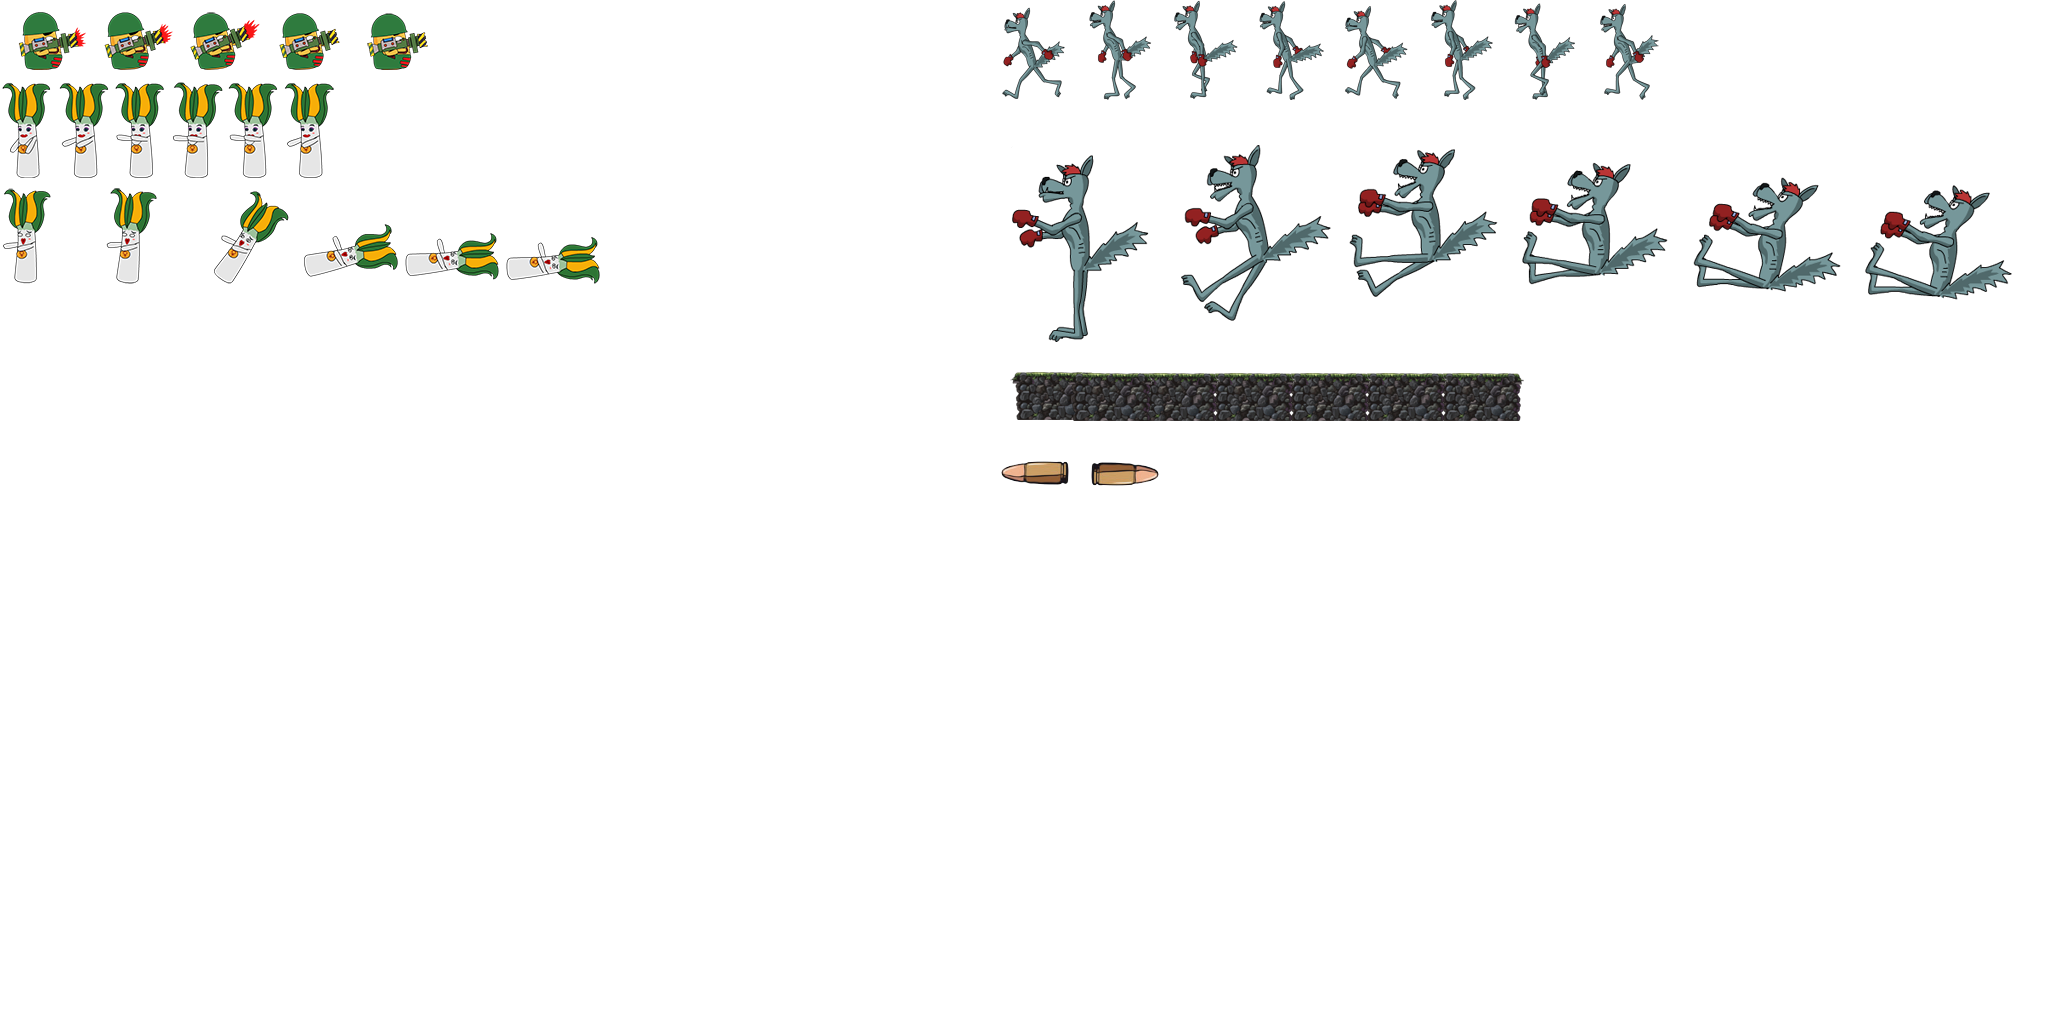
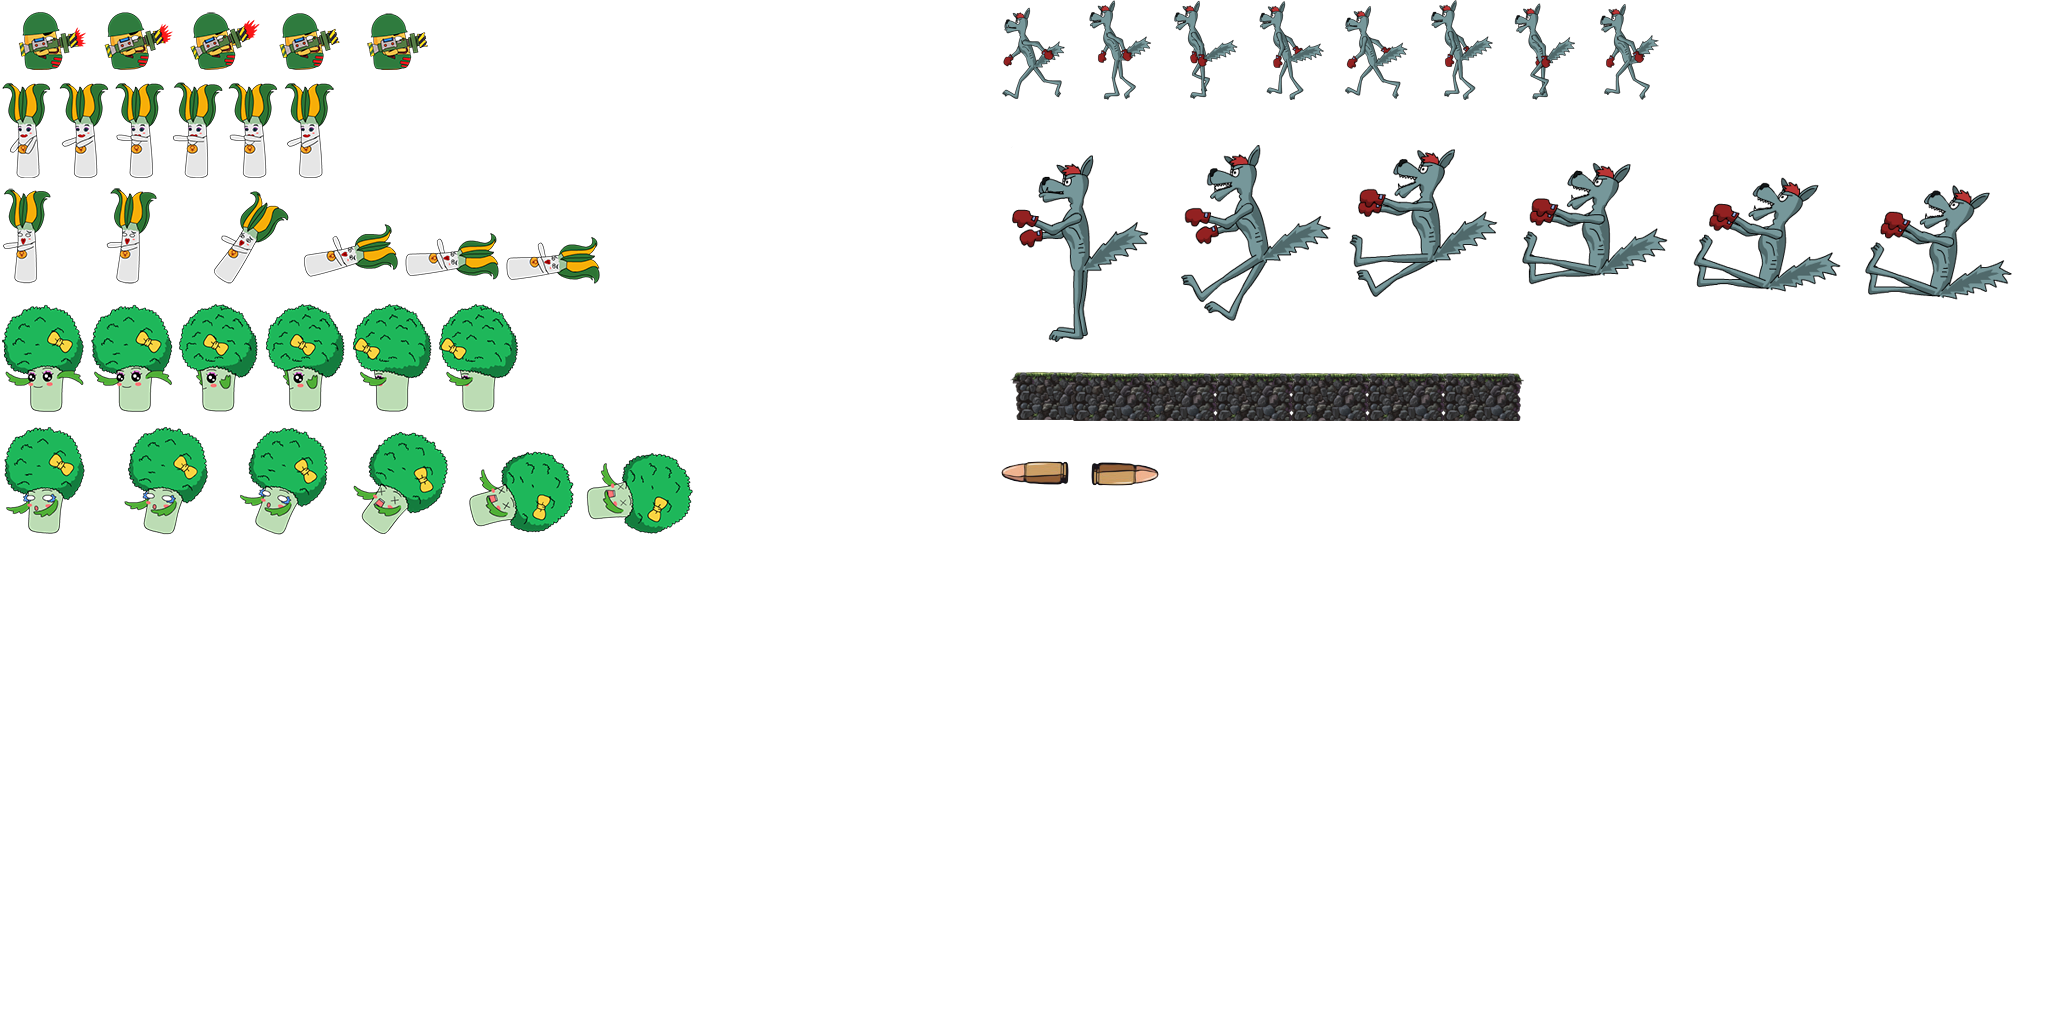
Create enemy base class

Changed region(s): [[0.0, 0.2812, 0.3438, 0.5312]]

diff --git a/core/src/com/xqs/mypaoku/stage/GameStage.java b/core/src/com/xqs/mypaoku/stage/GameStage.java
@@ -8,10 +8,12 @@ import com.badlogic.gdx.utils.viewport.Viewport;
 import com.xqs.mypaoku.MyPaokuGame;
 import com.xqs.mypaoku.actor.Bg;
 import com.xqs.mypaoku.actor.Bullet;
-import com.xqs.mypaoku.actor.Enemy;
+import com.xqs.mypaoku.actor.CaihuaEnemy;
+import com.xqs.mypaoku.actor.DacongEnemy;
 import com.xqs.mypaoku.actor.Player;
 import com.xqs.mypaoku.actor.Road;
 import com.xqs.mypaoku.actor.Tower;
+import com.xqs.mypaoku.actor.base.BaseEnemy;
 import com.xqs.mypaoku.stage.base.BaseStage;
 import com.xqs.mypaoku.util.Box2DManager;
 import com.xqs.mypaoku.util.CollisionUtils;
@@ -47,7 +49,7 @@ public class GameStage extends BaseStage {
 	private Road roadActor;
 
 	/** 敌人容器 **/
-	private List<Enemy> enemyList=new ArrayList<Enemy>();
+	private List<BaseEnemy> enemyList=new ArrayList<BaseEnemy>();
 
 	/**子弹容器**/
 	private List<Bullet> bulletList=new ArrayList<Bullet>();
@@ -100,12 +102,12 @@ public class GameStage extends BaseStage {
 
 		enemyOrderMap.put(1,1);
 		enemyOrderMap.put(11,1);
-		enemyOrderMap.put(12,1);
-		enemyOrderMap.put(30,1);
+		enemyOrderMap.put(12,2);
+		enemyOrderMap.put(30,2);
 		enemyOrderMap.put(50,1);
-		enemyOrderMap.put(50,1);
-		enemyOrderMap.put(60,1);
-		enemyOrderMap.put(70,1);
+		enemyOrderMap.put(50,2);
+		enemyOrderMap.put(60,2);
+		enemyOrderMap.put(70,2);
 
 		/*
 		 * 初始为游戏准备状态
@@ -144,9 +146,16 @@ public class GameStage extends BaseStage {
 	 * 生成敌人
      */
 	private void generateEnemy(int type){
-		Enemy enemy=new Enemy(getMainGame());
-		addActor(enemy);
-		enemyList.add(enemy);
+		if(type==1){
+			DacongEnemy enemy=new DacongEnemy(getMainGame());
+			addActor(enemy);
+			enemyList.add(enemy);
+		}else if(type==2){
+			CaihuaEnemy enemy=new CaihuaEnemy(getMainGame());
+			addActor(enemy);
+			enemyList.add(enemy);
+		}
+
 	}
 
 
@@ -157,15 +166,16 @@ public class GameStage extends BaseStage {
 
 		//子弹与敌人碰撞检测
 		for(Bullet bullet:bulletList){
-			for(Enemy enemy:enemyList){
+			for(BaseEnemy enemy:enemyList){
 				if(CollisionUtils.isCollision(bullet,enemy,10)){
 					Util.log("collision:","yes");
 
 					getRoot().removeActor(bullet);
-//					getRoot().removeActor(enemy);
 
 					bullet.setState(Bullet.DEAD);
-					if(enemy.getState()==Enemy.WALK) {
+
+					if(enemy.getState()== DacongEnemy.WALK) {
+
 						enemy.hurt();
 					}
 				}
@@ -182,10 +192,10 @@ public class GameStage extends BaseStage {
 		}
 
 		//移除死亡的敌人
-		Iterator<Enemy> enemyIterator= enemyList.iterator();
+		Iterator<BaseEnemy> enemyIterator= enemyList.iterator();
 		while (enemyIterator.hasNext()){
-			Enemy enemy=enemyIterator.next();
-			if(enemy.getState()==Enemy.DEAD){
+			BaseEnemy enemy=enemyIterator.next();
+			if(enemy.getState()== DacongEnemy.DEAD){
 				enemyIterator.remove();
 			}
 		}

diff --git a/core/src/com/xqs/mypaoku/actor/base/BaseEnemy.java b/core/src/com/xqs/mypaoku/actor/base/BaseEnemy.java
@@ -1,19 +1,116 @@
 package com.xqs.mypaoku.actor.base;
 
+import com.badlogic.gdx.graphics.g2d.Animation;
 import com.badlogic.gdx.math.Vector2;
+import com.xqs.mypaoku.MyPaokuGame;
 import com.xqs.mypaoku.actor.framework.AnimationActor;
 
 /**
  * Created by Administrator on 2017/3/2 0002.
  */
 
-public class BaseEnemy extends AnimationActor{
+public abstract class BaseEnemy extends AnimationActor{
 
     public static final int WALK=0;
     public static final int DEAD=1;
     public static final int HURT=2;
 
+
+    public MyPaokuGame mainGame;
+    public int state=-1;
+    public int type;
+
+
+    private Animation walkAnimation;
+    private Animation hurtAnimation;
+
+    private int deadAnimationFrameLength;
+
     public Vector2 position=new Vector2();
 
+    //停止线
+    private int stopX;
 
+    public BaseEnemy(MyPaokuGame mainGame){
+        this.mainGame=mainGame;
+        walkAnimation=getWalkAnimation();
+        hurtAnimation=getHurtAnimation();
+        walkAnimation.setPlayMode(Animation.PlayMode.LOOP);
+        deadAnimationFrameLength=hurtAnimation.getKeyFrames().length;
+    }
+
+    public void setStopX(int stopX){
+        this.stopX=stopX;
+    }
+
+    /**
+     * apis
+     */
+    public abstract Animation getWalkAnimation();
+
+    public abstract Animation getHurtAnimation();
+
+
+    public void setType(int type){
+        this.type=type;
+    }
+
+    public int getType(){
+        return type;
+    }
+
+    public void walk(){
+        setState(WALK);
+        setCurrentAnimation(WALK);
+    }
+
+    public void hurt(){
+        setState(HURT);
+        setCurrentAnimation(HURT);
+    }
+
+    public void setState(int state){
+        this.state=state;
+    }
+
+    public int getState(){
+        return state;
+    }
+
+
+    public void setCurrentAnimation(int state){
+        switch (state){
+            case WALK:
+                setAnimation(walkAnimation);
+                break;
+            case HURT:
+                setAnimation(hurtAnimation);
+                break;
+        }
+    }
+
+    @Override
+    public void act(float delta) {
+        super.act(delta);
+        switch (this.state){
+            case WALK:
+                position.x-=(delta*100);
+                if(position.x<stopX){
+                    position.x=stopX;
+                }
+                setX(position.x);
+                break;
+            case HURT:
+                position.x+=(delta*20);
+                setX(position.x);
+                int index=hurtAnimation.getKeyFrameIndex(getStateTime());
+                if(index==(deadAnimationFrameLength-1)){
+                    this.state=DEAD;
+                }
+                break;
+            case DEAD:
+                this.remove();
+                break;
+        }
+    }
 }

diff --git a/core/src/com/xqs/mypaoku/actor/CaihuaEnemy.java b/core/src/com/xqs/mypaoku/actor/CaihuaEnemy.java
@@ -1,38 +1,31 @@
 package com.xqs.mypaoku.actor;
 
-import com.badlogic.gdx.Gdx;
 import com.badlogic.gdx.graphics.g2d.Animation;
 import com.badlogic.gdx.graphics.g2d.TextureAtlas;
-import com.badlogic.gdx.graphics.g3d.utils.AnimationController;
-import com.badlogic.gdx.math.Vector2;
 import com.xqs.mypaoku.MyPaokuGame;
 import com.xqs.mypaoku.actor.base.BaseEnemy;
-import com.xqs.mypaoku.actor.base.MyAnimation;
-import com.xqs.mypaoku.actor.framework.AnimationActor;
 import com.xqs.mypaoku.res.Res;
 import com.xqs.mypaoku.stage.GameStage;
 import com.xqs.mypaoku.util.GameState;
 import com.xqs.mypaoku.util.TextureUtil;
-import com.xqs.mypaoku.util.Util;
-
-import java.util.List;
 
 /**
- * Created by Administrator on 2017/1/18 0018.
+ * Created by Administrator on 2017/3/4 0004.
  */
 
-public class DacongEnemy extends BaseEnemy {
+public class CaihuaEnemy extends BaseEnemy {
 
 
 
 
-    public DacongEnemy(MyPaokuGame mainGame) {
+    public CaihuaEnemy(MyPaokuGame mainGame) {
         super(mainGame);
 
+        this.mainGame=mainGame;
 
 
-        position.x=mainGame.getWorldWidth();
-        position.y=120;
+        position.x=this.mainGame.getWorldWidth();
+        position.y=150;
 
         setStopX(320);
 
@@ -44,14 +37,14 @@ public class DacongEnemy extends BaseEnemy {
 
     @Override
     public Animation getWalkAnimation() {
-        TextureAtlas.AtlasRegion walkRegion=mainGame.getAtlas().findRegion(Res.Atlas.IMAGE_ENEMY_DACONG_WALK);
+        TextureAtlas.AtlasRegion walkRegion=mainGame.getAtlas().findRegion(Res.Atlas.IMAGE_ENEMY_CAIHUA_WALK);
         Animation walkAnimation = new  Animation(0.1F, TextureUtil.getTextureRegions(walkRegion,1,6));
         return walkAnimation;
     }
 
     @Override
     public Animation getHurtAnimation() {
-        TextureAtlas.AtlasRegion deadRegion=mainGame.getAtlas().findRegion(Res.Atlas.IMAGE_ENEMY_DACONG_DEAD);
+        TextureAtlas.AtlasRegion deadRegion=mainGame.getAtlas().findRegion(Res.Atlas.IMAGE_ENEMY_CAIHUA_DEAD);
         Animation hurtAnimation = new  Animation(0.1F, TextureUtil.getTextureRegions(deadRegion,1,6));
         return hurtAnimation;
     }
@@ -64,6 +57,4 @@ public class DacongEnemy extends BaseEnemy {
         }
         super.act(delta);
     }
-
-
 }

diff --git a/core/src/com/xqs/mypaoku/res/Res.java b/core/src/com/xqs/mypaoku/res/Res.java
@@ -37,9 +37,15 @@ public class Res {
 
         public static final String IMAGE_ENEMY = "enemy";
 
-        public static final String IMAGE_ENEMY_DACONG_WALK="dacong_walk";
 
+        /** 大葱 **/
+        public static final String IMAGE_ENEMY_DACONG_WALK="dacong_walk";
         public static final String IMAGE_ENEMY_DACONG_DEAD="dacong_dead";
+
+
+        /** 菜花 **/
+        public static final String IMAGE_ENEMY_CAIHUA_WALK="caihua_walk";
+        public static final String IMAGE_ENEMY_CAIHUA_DEAD="caihua_dead";
 
 
         public static final String IMAGE_ENEMY_DEAD="enemy_dead";

diff --git a/core/src/com/xqs/mypaoku/util/Box2DManager.java b/core/src/com/xqs/mypaoku/util/Box2DManager.java
@@ -7,6 +7,7 @@ import com.badlogic.gdx.physics.box2d.Box2DDebugRenderer;
 import com.badlogic.gdx.physics.box2d.CircleShape;
 import com.badlogic.gdx.physics.box2d.Fixture;
 import com.badlogic.gdx.physics.box2d.FixtureDef;
+import com.badlogic.gdx.physics.box2d.PolygonShape;
 import com.badlogic.gdx.physics.box2d.World;
 
 /**

diff --git a/desktop/src/com/xqs/mypaoku/desktop/DesktopLauncher.java b/desktop/src/com/xqs/mypaoku/desktop/DesktopLauncher.java
@@ -7,9 +7,9 @@ import com.xqs.mypaoku.MyPaokuGame;
 public class DesktopLauncher {
 
 
-	public static final float PIX_WIDTH = 1280;
+	public static final float PIX_WIDTH = 854;
 
-	public static final float PIX_HEIGHT = 720;
+	public static final float PIX_HEIGHT = 480;
 
 
 

diff --git a/core/src/com/xqs/mypaoku/actor/Bullet.java b/core/src/com/xqs/mypaoku/actor/Bullet.java
@@ -109,7 +109,7 @@ public class Bullet extends AnimationActor{
 
 
         body.applyLinearImpulse(new Vector2((this.mClickX*ratio-100)/14,0),body.getWorldCenter(),true);
-//        body.applyForceToCenter(new Vector2(30f,0),true);
+
 
         setPosition(100,300);
 
